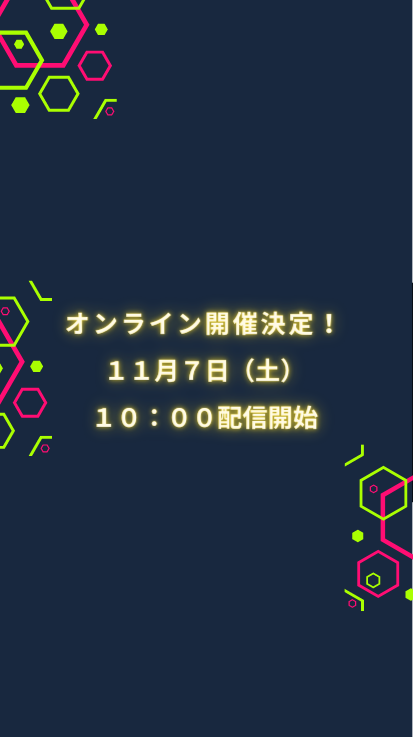
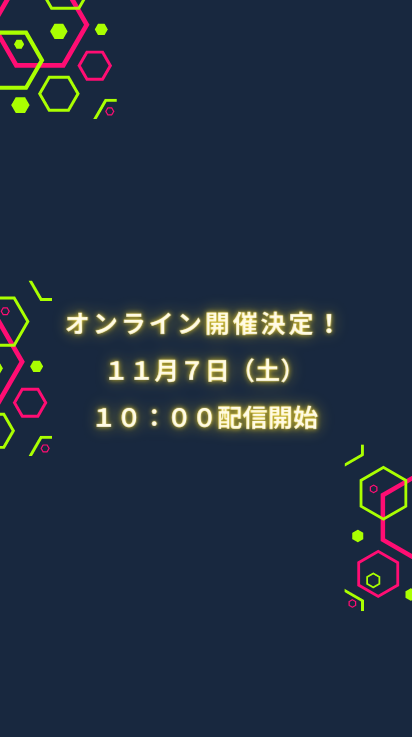
背景画像調整

diff --git a/src/pages/index.tsx b/src/pages/index.tsx
@@ -22,22 +22,34 @@ const Home: NextPage = () => {
         <title>2020年こうがく祭公式HP | 茨城大学</title>
       </Head>
       <main className="k-lg:w-[calc(100%-20vw)] ml-auto">
-        {/* <div className={clsx("flex items-center justify-center")}>
-          <div
-            className={clsx(
-              "w-full h-[737px] k-sm:h-[1366px] k-lg:h-[1080px] flex",
-              "bg-center bg-cover bg-origin-content box-border bg-no-repeat",
-              "bg-pre-sm k-sm:bg-pre-md k-lg:bg-pre-lg text-center"
-            )}
-          >
-            <h1 className="items-center">
-              <img src="/title.png" className="border-none" />
-            </h1>
-          </div>
-        </div> */}
+        <div
+          className="w-full h-0 pt-[200%] bg-center bg-cover bg-no-repeat k-sm:hidden"
+          style={{ backgroundImage: "url(./background_pre_sm.png)" }}
+        />
+        <div
+          className="w-full h-0 pt-[133%] bg-center bg-cover bg-no-repeat hidden k-sm:block k-lg:hidden"
+          style={{ backgroundImage: "url(./background_pre_md.png)" }}
+        />
+        <div
+          className="w-full h-0 pt-[56.25%] bg-center bg-cover bg-no-repeat hidden k-lg:block"
+          style={{ backgroundImage: "url(./background_pre_lg.png)" }}
+        />
+        <h1
+          className={clsx(
+            "absolute top-[50px] left-[calc(50%-60vw)]",
+            "k-sm:top-[15vw] k-sm:left-[calc(50%-32vw)]",
+            "k-lg:top-[5vh] k-lg:left-[calc(50%-13vw)] m-auto"
+          )}
+        >
+          <img
+            src="/title.png"
+            alt="こうがく祭"
+            className="w-full k-sm:w-[58vw] k-lg:w-[40vw]"
+          />
+        </h1>
         <article
           className={clsx(
-            "p-[10%] k-lg:py-[5%] k-lg:pl-[7%] k-lg:pr-[20%] k-lg:min-h-[500px]",
+            "p-[10%] k-lg:py-[5%] k-lg:pl-[7%] k-lg:pr-[20%] k-lg:min-h-[500px] static",
             "space-y-[50px] text-[1.8rem] bg-white items-center"
           )}
         >

diff --git a/tailwind.config.js b/tailwind.config.js
@@ -27,11 +27,6 @@ module.exports = {
         "k-sm": "481px",
         "k-lg": "960px",
       },
-      backgroundImage: {
-        "pre-lg": "url('/background_pre_lg.png')",
-        "pre-md": "url('/background_pre_md.png')",
-        "pre-sm": "url('/background_pre_sm.png')",
-      },
     },
   },
   variants: {
